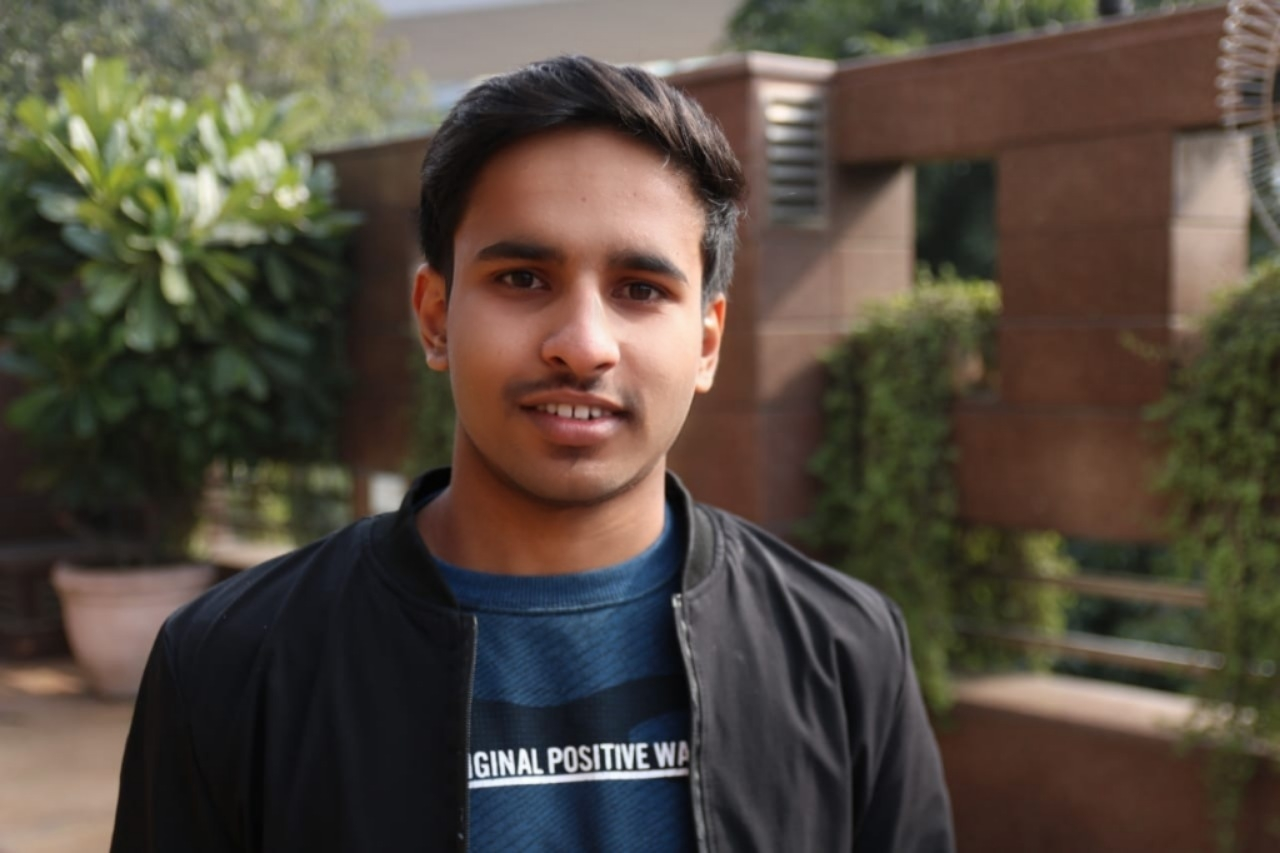
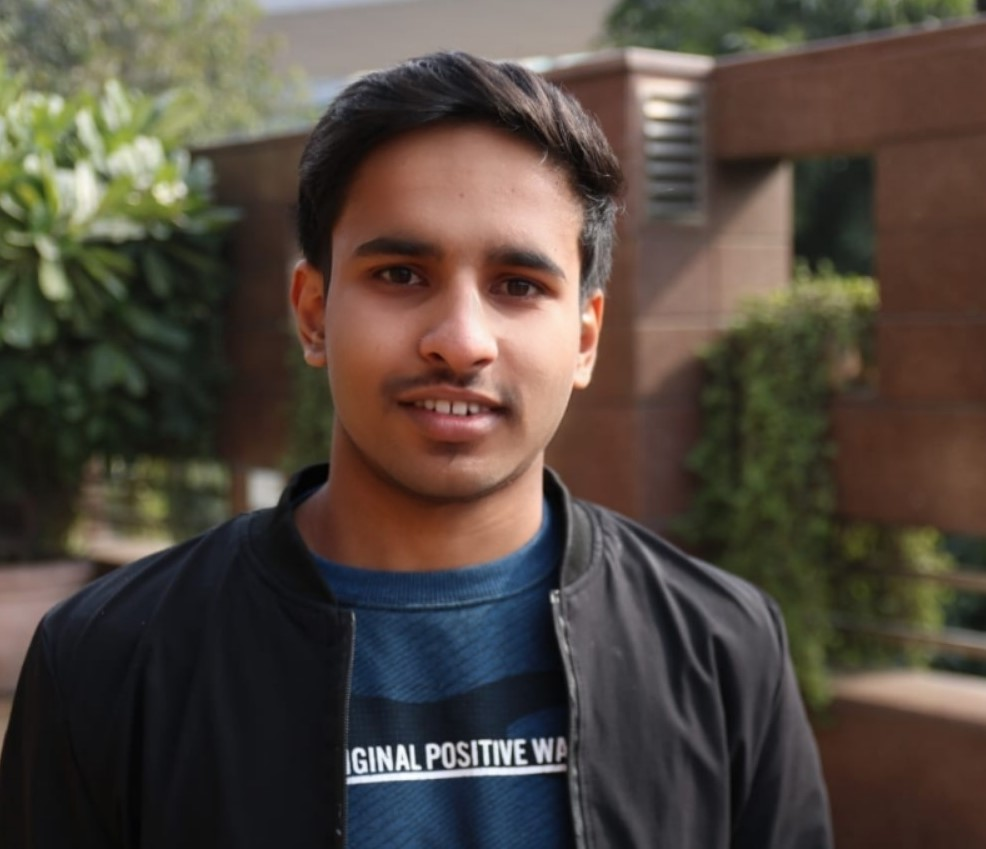
Updated some missing photos in teampage

diff --git a/teampage.html b/teampage.html
@@ -361,7 +361,7 @@
       </div>
       <div class="members-cards">
         <div class="card h-100">
-          <img src="assets/images/team_members/ocs/IMG_20210122_232421.jpg" class="member-images" alt="President">
+          <img src="assets/images/team_members/ocs/Akshay.jpeg" class="member-images" alt="President">
           <div class="member-social-media">
             <a href="#"><i class="fab fa-instagram"></i></a>
             <a href="#"><i class="fab fa-linkedin-in"></i></a>
@@ -374,7 +374,7 @@
       </div>
       <div class="members-cards">
         <div class="card h-100">
-          <img src="assets/images/team_members/ocs/IMG_20210122_232421.jpg" class="member-images" alt="President">
+          <img src="assets/images/team_members/ocs/alqab.jpeg" class="member-images" alt="President">
           <div class="member-social-media">
             <a href="#"><i class="fab fa-instagram"></i></a>
             <a href="#"><i class="fab fa-linkedin-in"></i></a>
@@ -556,7 +556,7 @@
       </div>
       <div class="members-cards">
         <div class="card h-100">
-          <img src="assets/images/team_members/ocs/IMG_20210122_232421.jpg" class="member-images" alt="President">
+          <img src="assets/images/team_members/ocs/sscbs-shyaamal.jpg" class="member-images" alt="President">
           <div class="member-social-media">
             <a href="#"><i class="fab fa-instagram"></i></a>
             <a href="#"><i class="fab fa-linkedin-in"></i></a>
